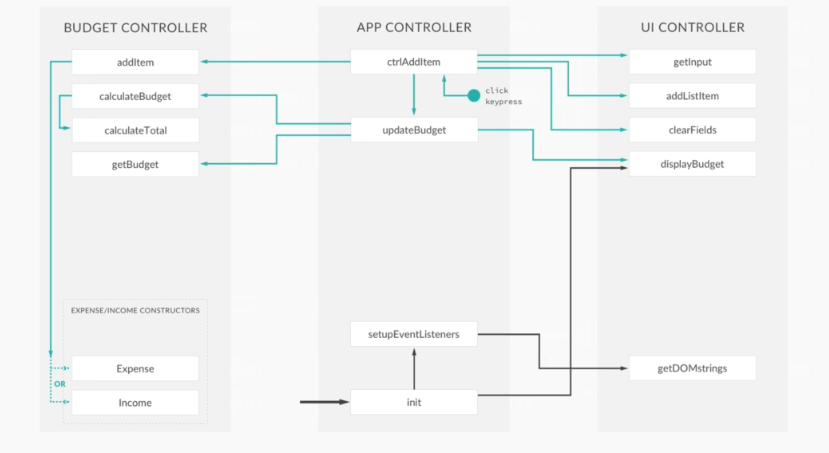
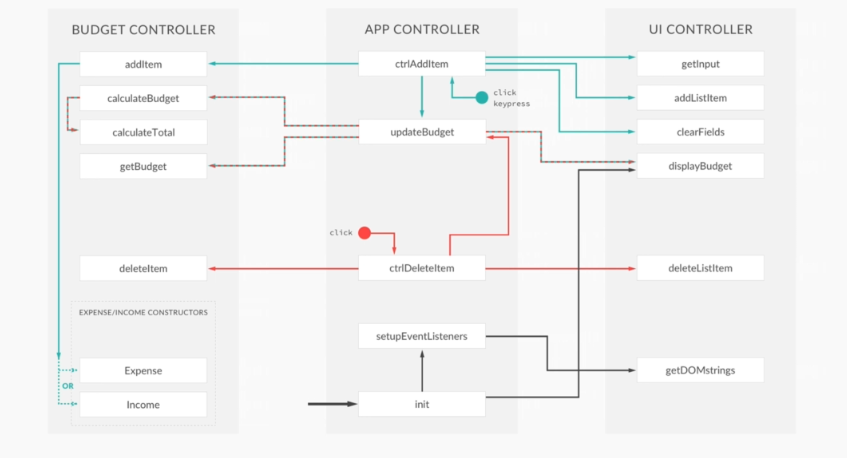
update Number format and UI fixes

diff --git a/app.js b/app.js
@@ -4,6 +4,17 @@ var budgetController = (function() {
     this.id = id;
     this.description = description;
     this.value = value;
+    this.percentage = -1;
+  };
+
+  Expense.prototype.calcPercentage = function(totalIncome) {
+    totalIncome > 0
+      ? (this.percentage = Math.round((this.value / totalIncome) * 100))
+      : (this.percentage = -1);
+  };
+
+  Expense.prototype.getPercentage = function() {
+    return this.percentage;
   };
 
   var Income = function(id, description, value) {
@@ -89,6 +100,19 @@ var budgetController = (function() {
       }
     },
 
+    calculatePercentages: function() {
+      data.allItems.exp.forEach(function(current) {
+        current.calcPercentage(data.totals.inc);
+      });
+    },
+
+    getPercentages: function() {
+      var allPercentages = data.allItems.exp.map(function(current) {
+        return current.getPercentage();
+      });
+      return allPercentages;
+    },
+
     getBudget: function() {
       return {
         budget: data.budget,
@@ -117,7 +141,41 @@ var UIController = (function() {
     incomeLabel: '.budget__income--value',
     expenseLabel: '.budget__expenses--value',
     percentageLabel: '.budget__expenses--percentage',
-    containter: '.container'
+    containter: '.container',
+    expensesPercLabel: '.item__percentage',
+    dateLabel: '.budget__title--month'
+  };
+
+  var formatNumber = function(num, type) {
+    var numSplit, int, dec, type;
+    /**
+    + or - before number
+    exactly 2 decimal points
+    comma separating the thousands
+
+    2310.4697 -> + 2,310.47
+    2000 -> + 2,000.00
+    */
+
+    num = Math.abs(num);
+    num = num.toFixed(2);
+
+    numSplit = num.split('.');
+
+    int = numSplit[0];
+    if (int.length > 3) {
+      int = int.substr(0, int.length - 3) + ',' + int.substr(int.length - 3, 3); // input 23510 -> 23,510
+    }
+
+    dec = numSplit[1];
+
+    return (type === 'exp' ? '-' : '+') + int + '.' + dec;
+  };
+
+  var nodeListForEach = function(list, callback) {
+    for (var i = 0; i < list.length; i++) {
+      callback(list[i], i);
+    }
   };
 
   return {
@@ -145,7 +203,7 @@ var UIController = (function() {
       //replace placeholder text with some actual data
       newHtml = html.replace('%id%', obj.id);
       newHtml = newHtml.replace('%description%', obj.description);
-      newHtml = newHtml.replace('%value%', obj.value);
+      newHtml = newHtml.replace('%value%', formatNumber(obj.value, type));
 
       //insert html into the DOM
       document.querySelector(element).insertAdjacentHTML('beforeend', newHtml);
@@ -175,17 +233,78 @@ var UIController = (function() {
     },
 
     displayBudget: function(obj) {
-      document.querySelector(DOMstrings.budgetLabel).textContent = obj.budget;
-      document.querySelector(DOMstrings.incomeLabel).textContent = obj.totalInc;
-      document.querySelector(DOMstrings.expenseLabel).textContent =
-        obj.totalExp;
+      obj.budget > 0 ? (type = 'inc') : (type = 'exp');
 
-      if (obj.percentage > 0) {
-        document.querySelector(DOMstrings.percentageLabel).textContent =
-          obj.percentage + '%';
-      } else {
-        document.querySelector(DOMstrings.percentageLabel).textContent = '---';
-      }
+      document.querySelector(DOMstrings.budgetLabel).textContent = formatNumber(
+        obj.budget,
+        type
+      );
+      document.querySelector(DOMstrings.incomeLabel).textContent = formatNumber(
+        obj.totalInc,
+        'inc'
+      );
+      document.querySelector(
+        DOMstrings.expenseLabel
+      ).textContent = formatNumber(obj.totalExp, type);
+
+      obj.percentage > 0
+        ? (document.querySelector(DOMstrings.percentageLabel).textContent =
+            obj.percentage + '%')
+        : (document.querySelector(DOMstrings.percentageLabel).textContent =
+            '---');
+    },
+
+    displayPercentages: function(percentages) {
+      var fields;
+
+      fields = document.querySelectorAll(DOMstrings.expensesPercLabel);
+
+      nodeListForEach(fields, function(current, index) {
+        percentages[index] > 0
+          ? (current.textContent = percentages[index] + '%')
+          : (current.textContent = '---');
+      });
+    },
+
+    displayMonth: function() {
+      var now, year, month, months;
+
+      now = new Date();
+      year = now.getFullYear();
+
+      months = [
+        'January',
+        'Feburary',
+        'March',
+        'April',
+        'May',
+        'June',
+        'July',
+        'August',
+        'September',
+        'October',
+        'November',
+        'December'
+      ];
+      month = now.getMonth();
+
+      document.querySelector(DOMstrings.dateLabel).textContent =
+        months[month] + ' ' + year;
+    },
+
+    changeType: function() {
+      var fields;
+      fields = document.querySelectorAll(
+        DOMstrings.inputType +
+          ',' +
+          DOMstrings.inputDescription +
+          ',' +
+          DOMstrings.inputValue
+      );
+
+      nodeListForEach(fields, function(current) {
+        current.classList.toggle('red-focus');
+      });
     },
 
     getDOMstrings: function() {
@@ -211,6 +330,10 @@ var controller = (function(budgetCtrl, UICtrl) {
     document
       .querySelector(DOM.containter)
       .addEventListener('click', ctrlDeleteItem);
+
+    document
+      .querySelector(DOM.inputType)
+      .addEventListener('change', UICtrl.changeType);
   }
 
   var updateBudget = function() {
@@ -222,6 +345,17 @@ var controller = (function(budgetCtrl, UICtrl) {
 
     //3. display the budget on the UI
     UICtrl.displayBudget(budget);
+  };
+
+  var updatePercentages = function() {
+    //1. Calcuate Percentages
+    budgetCtrl.calculatePercentages();
+
+    //2. read percentages form the budget controller
+    var percentages = budgetCtrl.getPercentages();
+
+    //3. update UI with new percentages
+    UICtrl.displayPercentages(percentages);
   };
 
   var ctrlAddItem = function() {
@@ -242,6 +376,9 @@ var controller = (function(budgetCtrl, UICtrl) {
 
       //5. Calc and update budget
       updateBudget();
+
+      //6.update percentages
+      updatePercentages();
     }
   };
 
@@ -265,18 +402,23 @@ var controller = (function(budgetCtrl, UICtrl) {
 
       //3. Update and show the new budget
       updateBudget();
+
+      //4. update percentages
+      updatePercentages();
     }
   };
 
   return {
     init: function() {
       console.log('app has stated');
+      UICtrl.displayMonth();
       UICtrl.displayBudget({
         budget: 0,
         totalExp: 0,
         totalInc: 0,
         percentage: -1
       });
+
       setupEventListeners();
     }
   };
